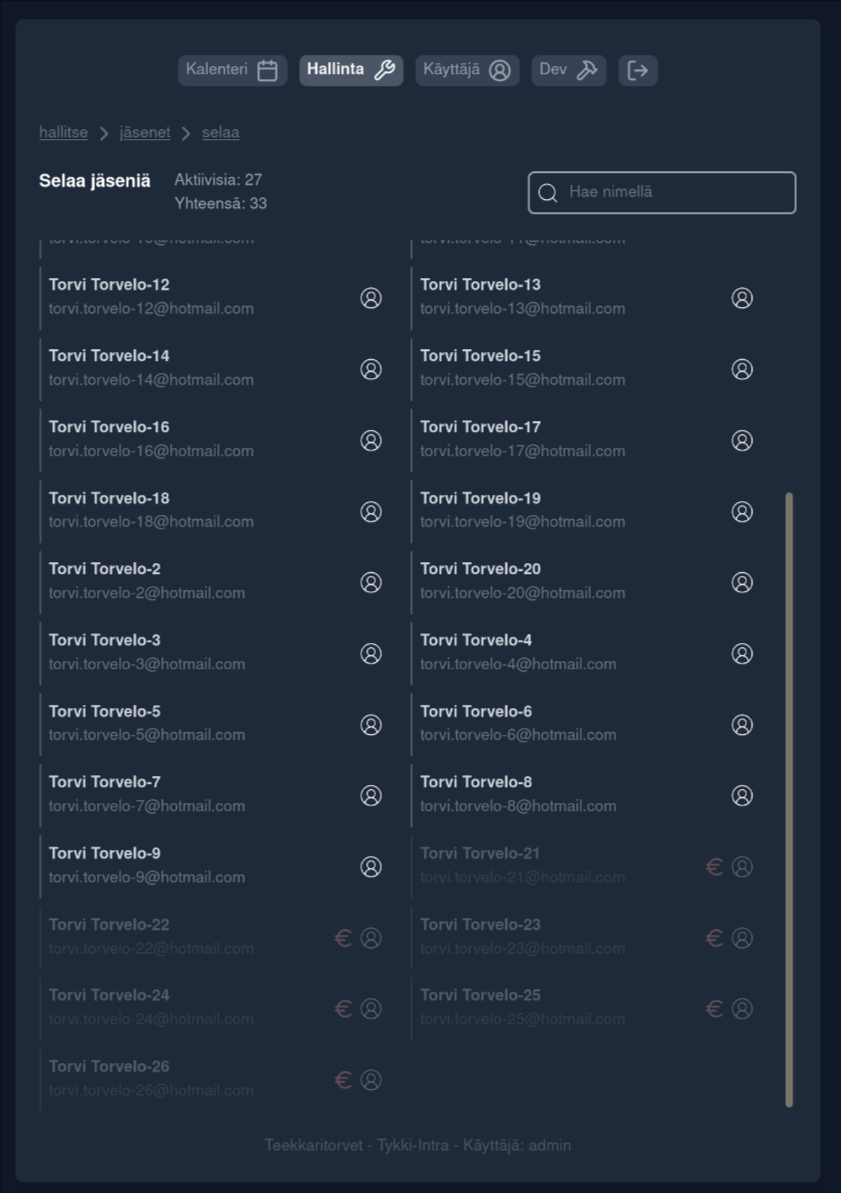
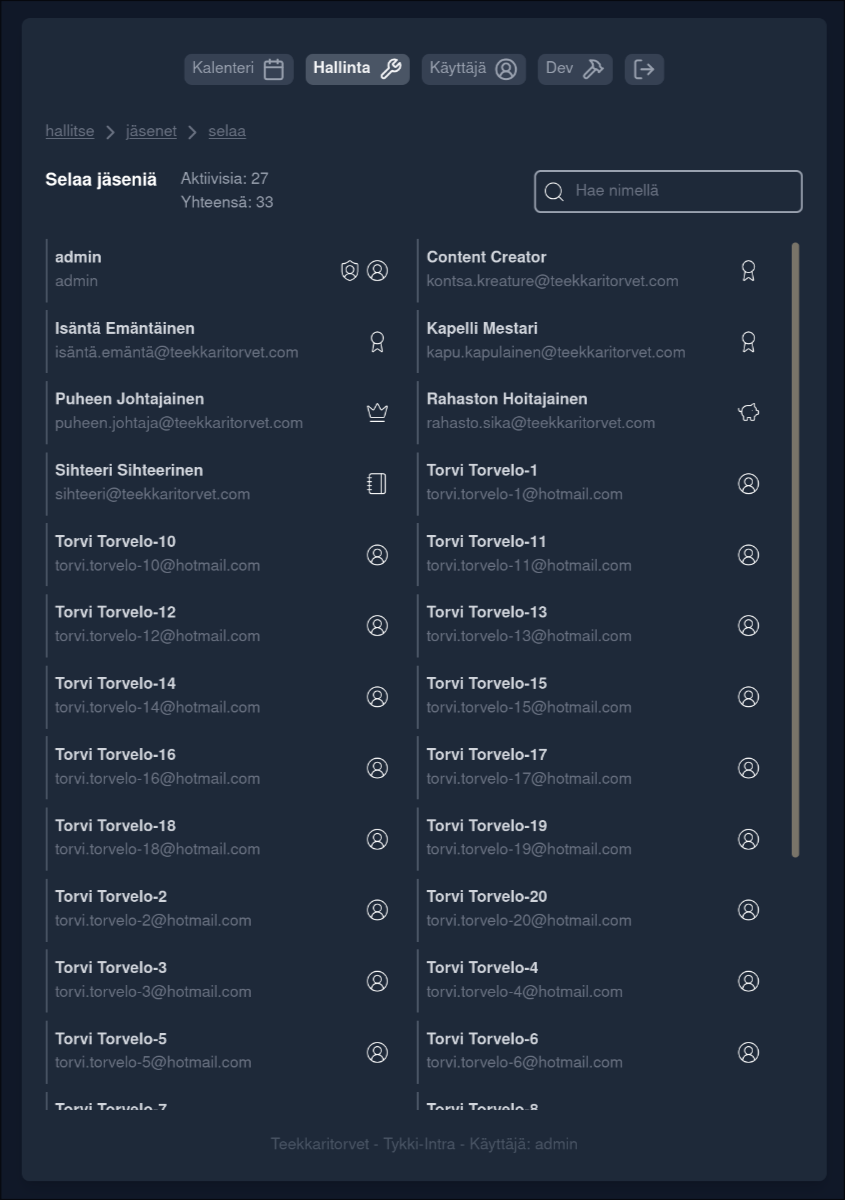
more pics

diff --git a/README.md b/README.md
@@ -7,7 +7,7 @@ Tykki-Intra is a orchester management web application to one day (maybe) replace
 ## Tech
 
 ### Backend
-🦀 __Axum__ (rust): ~1.5k lines of code. *Blazingly fast!*
+🦀 __Axum__ (rust): ~1.5k lines of code. *Blazingly fast! Async.*
 
 📦 Using libraries such as:
 
@@ -25,6 +25,9 @@ Tykki-Intra is a orchester management web application to one day (maybe) replace
 ### Database
 🗄 __SQLite__ (sql): *Simple and lightweight*
 
+### Containerization
+🐳 __Docker__: Everything runs in a single container. *Easy deployment*
+
 ## Screenshots
 
 ### Login Screen
@@ -36,3 +39,5 @@ Tykki-Intra is a orchester management web application to one day (maybe) replace
 ### Browse Members
 ![browse members](./assets/browse_members.png)
 
+### Manage Board Members
+![manage board](./assets/manage_board.png)
